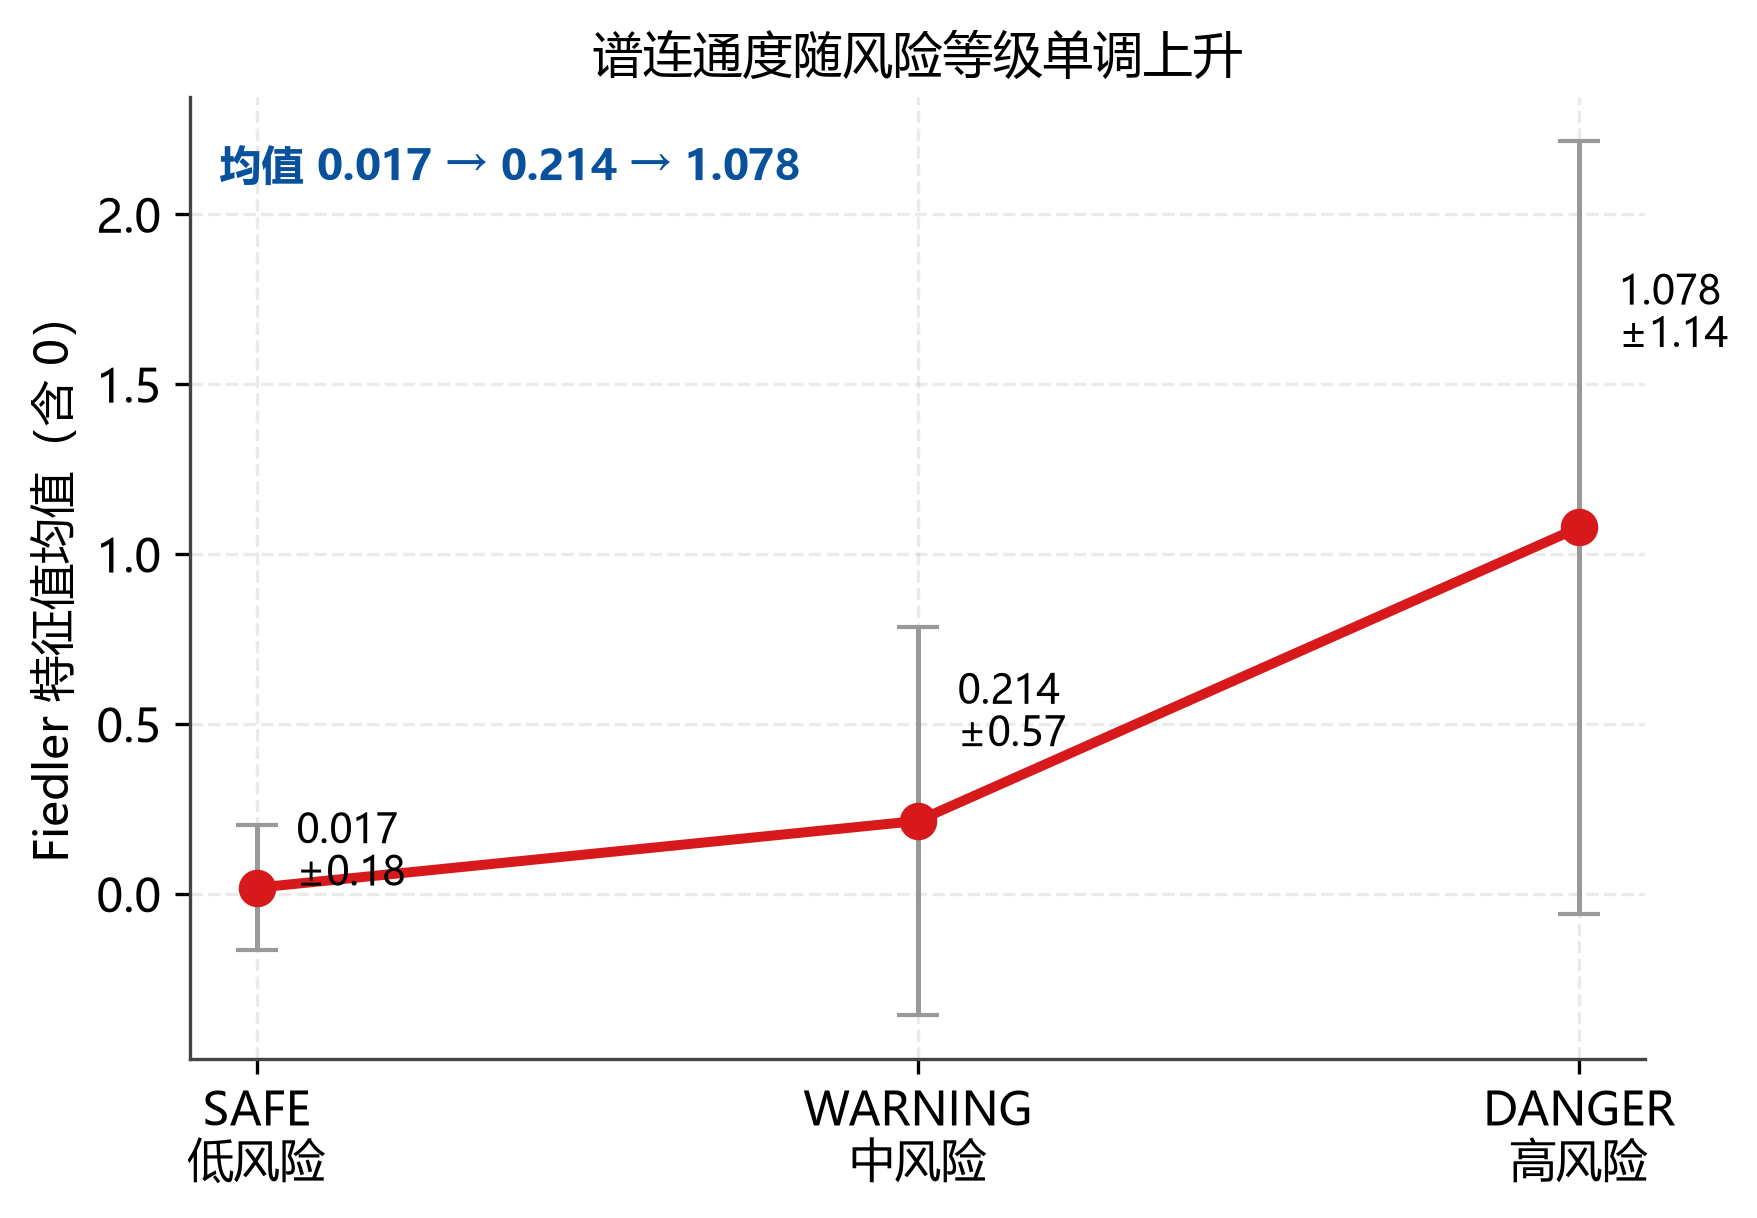
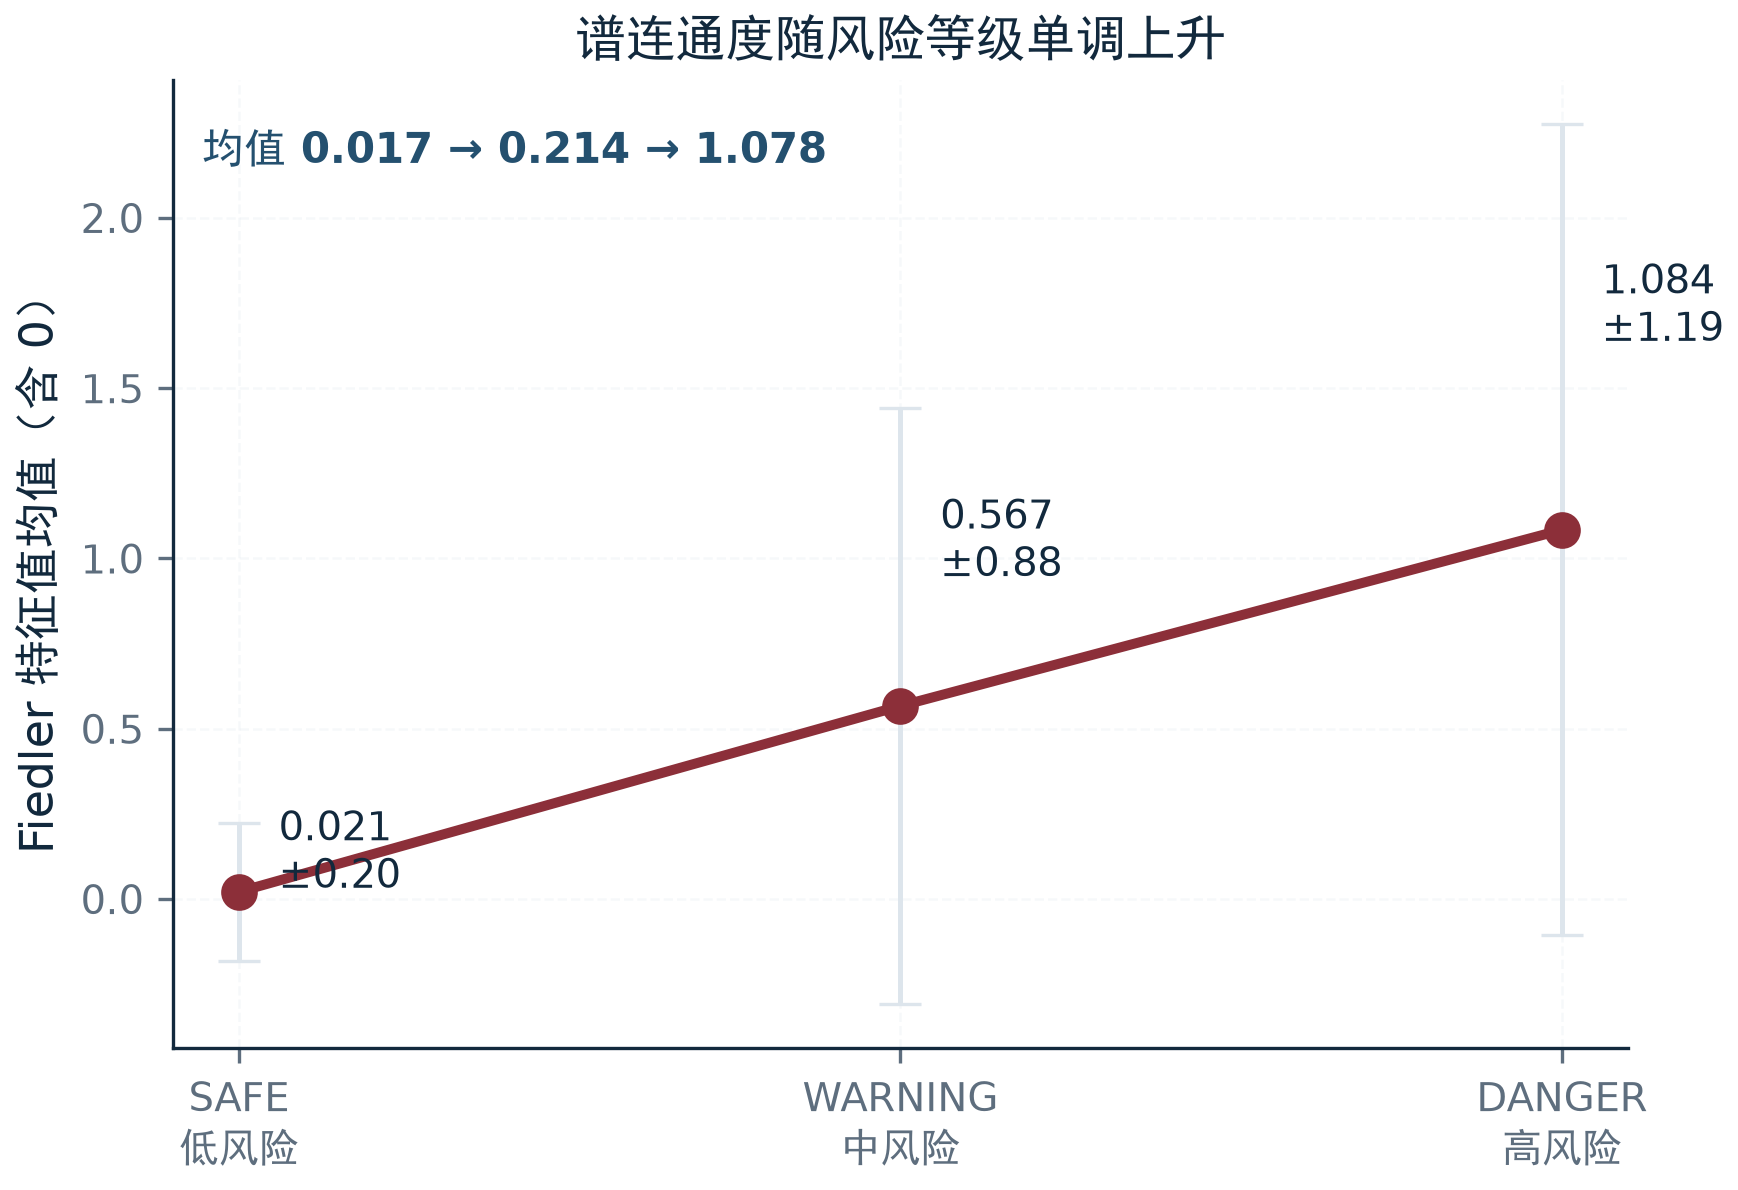
style(figures): 图表改用学术沉稳配色，README 移除配色方案说明
- palette.py 新增 steady 主题：冷调蓝灰单色阶（#16324F→#D3DEE7），风险三级靠明度差而非高饱和撞色（SAFE #3D7C8F / WARNING #B08127 / DANGER #8C2F39）
- make_figures.py 支持 --steady：直接覆盖主文件名（不带后缀），作为仓库默认图表；suffix 为空时不再加下划线后缀
- 重出 13 张主图 + hero_overview.png（沉稳版）
- README 删除「论文级图表（两套配色方案）」整节与取色规范，正文图引用回退到主文件名

diff --git a/docs/figures/_style/palette.py b/docs/figures/_style/palette.py
@@ -201,7 +201,38 @@ UNIFUSE = Theme(
     div_stops=("#0F2A44", "#2E6E9B", "#9EC1DA", "#F2F5F8", "#E3C7AE", "#B0795A", "#5E3B26"),
 )
 
-THEMES = {t.key: t for t in (BSAFIUSION, UNIFUSE)}
+STEADY = Theme(
+    key="steady",
+    label="学术沉稳（冷调蓝灰，深浅分层）",
+    source="项目自带主题：以低饱和蓝灰单色阶为主，风险三级用明度差而非色相撞色",
+    intent="专业克制的冷调蓝灰深浅阶梯，避免高饱和撞色；用于论文插图、汇报 PPT 与"
+           "任何需要久看而不刺眼的正式场合。数据类图表默认使用本主题。",
+    primary=(
+        "#16324F",  # 墨蓝    主干/最深一档、标题
+        "#24506F",  # 深藏蓝  编码器
+        "#356F94",  # 中蓝    解码器
+        "#5B93B5",  # 亮蓝    融合支路
+        "#4E7F84",  # 青灰    第二色家族（区分另一模态）
+        "#8FAEC4",  # 雾蓝    辅助系列
+        "#B6CBD9",  # 浅雾蓝  背景带/次要系列
+        "#D3DEE7",  # 浅蓝灰  网格带/最浅一档
+        "#6B7A89",  # 石板灰  中性/基线
+    ),
+    accent="#3E6B9B",     # 沉稳靛蓝：最优值标注、重点框（不用暖色撞色）
+    safe="#3D7C8F",       # 青蓝：SAFE（L*≈49）
+    warning="#B08127",    # 暗金：WARNING（L*≈58）
+    danger="#8C2F39",     # 酒红：DANGER（L*≈33）
+    bg="#FFFFFF",
+    panel="#F3F6F9",
+    grid="#DDE5EC",
+    text="#12293D",
+    text_muted="#5E6E7E",
+    axis="#12293D",
+    seq_stops=("#F6F9FB", "#D3DEE7", "#B6CBD9", "#8FAEC4", "#5B93B5", "#356F94", "#24506F", "#16324F"),
+    div_stops=("#16324F", "#356F94", "#A8C3D6", "#F3F6F9", "#DCC4B4", "#A9805F", "#5A3B26"),
+)
+
+THEMES = {t.key: t for t in (BSAFIUSION, UNIFUSE, STEADY)}
 
 
 def get(theme: str | Theme = "bsafiusion") -> Theme:

diff --git a/docs/figures/_style/make_figures.py b/docs/figures/_style/make_figures.py
@@ -49,7 +49,8 @@ SOURCES = [
 
 def patch(src, m, suffix):
     src = re.sub(r"#[0-9a-fA-F]{6}", lambda x: m.get(x.group(0).lower(), x.group(0)), src)
-    src = re.sub(r"\.png([\"'])", "_" + suffix + r".png\1", src)
+    if suffix:
+        src = re.sub(r"\.png([\"'])", "_" + suffix + r".png\1", src)
     return src
 
 def run_all(theme, suffix):
@@ -71,7 +72,10 @@ def run_all(theme, suffix):
         except Exception as e:
             print(f"  [FAIL] {rel}: {type(e).__name__}: {e}")
 
-if "--hero-only" not in sys.argv:
+if "--steady" in sys.argv:
+    # 沉稳主题直接覆盖主文件名（不带后缀），作为仓库默认图表
+    run_all("steady", "")
+elif "--hero-only" not in sys.argv:
     run_all("bsafiusion", "bsa")
     run_all("unifuse", "unifuse")
 

diff --git a/README.md b/README.md
@@ -24,35 +24,6 @@
 
 > 全部数字可在 [`docs/FACTS.md`](docs/FACTS.md) 逐条溯源（738 条事实，每条标注来源文件与提取方式），并由 [`docs/CROSSCHECK.md`](docs/CROSSCHECK.md) 做软硬件 / 论文数据 / 文档三向交叉验证。
 
-## 🎨 论文级图表（两套配色方案）
-
-图表配色取自两篇多模态融合论文的插图风格，同一份真实数据各出一版：
-
-- **Bsafiusion**（AAAI 2025）—— 高饱和、强对比，用于区分模块与消融对比
-- **UniFuse**（ICCV 2025）—— 冷调蓝灰深浅层次，沉稳高级，适合统一框架类示意
-
-| Bsafiusion（强对比） | UniFuse（冷调） |
-|---|---|
-| ![bsa](docs/figures/fig2_detect_rate_bsa.png) | ![unifuse](docs/figures/fig2_detect_rate_unifuse.png) |
-
-<details>
-<summary>展开：两套配色的取色规范与全部图表（点击）</summary>
-
-配色规范见 [`docs/figures/_style/README-palette.md`](docs/figures/_style/README-palette.md)，可复用调色板 [`palette.py`](docs/figures/_style/palette.py)：
-
-- **Bsafiusion 主序列**：`#0057FF` `#00C2FF` `#00C389` `#FFD400` `#FF8A00` `#E4003A` `#B5179E` `#7B2FF7` `#64748B`，强调色 `#FF2E88`
-- **UniFuse 主序列**：`#0F2A44` `#1B3F63` `#2E6E9B` `#4A8DB7` `#3F7A8C` `#7FA9C4` `#A9C6DB` `#CBD8E3` `#64748B`，强调色 `#E07A5F`
-- 风险三级不靠颜色单一通道区分：同时叠加 **hatch**（SAFE 无 / WARNING `//` / DANGER `xx`）与 **marker** 形状，灰度打印与色盲读者均可读（三级明度差实测相邻 ≥ 9、首尾 ≥ 18）
-
-一键重制全部图表：
-
-```bash
-G:/DevTools/python/python.exe docs/figures/_style/make_figures.py          # 两套配色全量重制 + 首屏主视觉
-G:/DevTools/python/python.exe docs/figures/_style/make_figures.py --hero-only   # 只重出 hero_overview.png
-```
-
-</details>
-
 ## ✨ 特性
 
 - **轻量化检测**：YOLOv5n + INT8 量化，在边缘端 NPU 上实时检测行人（C++/RKNN）
@@ -104,7 +75,7 @@ pedestrian-risk-decision/
 ├── docs/ # 系统原理/架构/算法/硬件/演示/工作日志
 │ ├── FACTS.md # 738 条可溯源事实表
 │ ├── CROSSCHECK.md # 软硬件 / 论文数据 / 文档三向交叉验证
-│ └── figures/ # 论文级图表（两套配色 + 首屏主视觉）
+│ └── figures/ # 论文级图表（沉稳配色 + 首屏主视觉）
 └── config/default_config.json
 ```
 
@@ -133,8 +104,8 @@ pedestrian-risk-decision/
 | 10–13 人 | 138 | **84.92 %** |
 | 14–19 人 | 12 | **79.43 %** |
 
-![图片基线等级分布](docs/figures/fig1_level_dist_bsa.png)
-![图片基线检出率](docs/figures/fig2_detect_rate_bsa.png)
+![图片基线等级分布](docs/figures/fig1_level_dist.png)
+![图片基线检出率](docs/figures/fig2_detect_rate.png)
 
 ### 视频增强（真实视频，Kalman+谱特征+FSM，111 条全量重跑）
 
@@ -144,21 +115,21 @@ pedestrian-risk-decision/
 - 稀疏/无人场景（`mixkit_50134`，光照正常）：388 帧全程 SAFE（该场景无行人，未触发告警）
 - **前后对比（公平基线，规则与真实引擎一致）**：平均切换次数 **23.22 → 5.12（↓78.0 %）**（基线 2578 次 / 111 条）；基线 **24 条**出现 DANGER、增强 **45 条**；DANGER 帧 **2190 → 8452**（FSM 评分含密度权重+谱特征且带保持机制，比逐帧规则更敏感、更稳定）。明细见 `results/rerun/_comparison_summary.json`；全量见 `results/rerun/`
 
-![视频增强前后对比](docs/figures/fig3_before_after_bsa.png)
-![视频增强等级分布](docs/figures/fig4_video_level_bsa.png)
-![111 条真实视频增强等级分布](docs/figures/fig5_111videos_level_bsa.png)
-![Fiedler 特征值随风险等级分布](docs/figures/fig6_fiedler_boxplot_bsa.png)
-![增强 vs 基线切换次数分布对比](docs/figures/fig7_switches_hist_bsa.png)
-![谱连通度随风险等级趋势](docs/figures/fig8_fiedler_trend_bsa.png)
-![FSM 决策过程时序（mixkit_13192 密集人群）](docs/figures/fig9_fsm_timeline_13192_bsa.png)
-![DANGER 视频数/帧数对比](docs/figures/fig_danger_compare_bsa.png)
-![等级帧占比对比](docs/figures/fig_level_share_compare_bsa.png)
+![视频增强前后对比](docs/figures/fig3_before_after.png)
+![视频增强等级分布](docs/figures/fig4_video_level.png)
+![111 条真实视频增强等级分布](docs/figures/fig5_111videos_level.png)
+![Fiedler 特征值随风险等级分布](docs/figures/fig6_fiedler_boxplot.png)
+![增强 vs 基线切换次数分布对比](docs/figures/fig7_switches_hist.png)
+![谱连通度随风险等级趋势](docs/figures/fig8_fiedler_trend.png)
+![FSM 决策过程时序（mixkit_13192 密集人群）](docs/figures/fig9_fsm_timeline_13192.png)
+![DANGER 视频数/帧数对比](docs/figures/fig_danger_compare.png)
+![等级帧占比对比](docs/figures/fig_level_share_compare.png)
 
 > 数据挖掘结论：Fiedler 与风险等级的 **Spearman ρ = 0.692**（45021 帧全量，2026-10-30 由逐帧 timeline 重算），谱连通度与人群聚集风险显著正相关。
 
 ### 消融实验（各组件贡献，6 条代表性视频）
 
-![消融实验：各组件对等级切换与 DANGER 识别的贡献](docs/figures/fig_ablation_pro_bsa.png)
+![消融实验：各组件对等级切换与 DANGER 识别的贡献](docs/figures/fig_ablation_pro.png)
 
 - **A 基线（无增强）**：平均切换 33.2 次
 - **B +Kalman 平滑**：→ 8.3 次（↓75 %）
